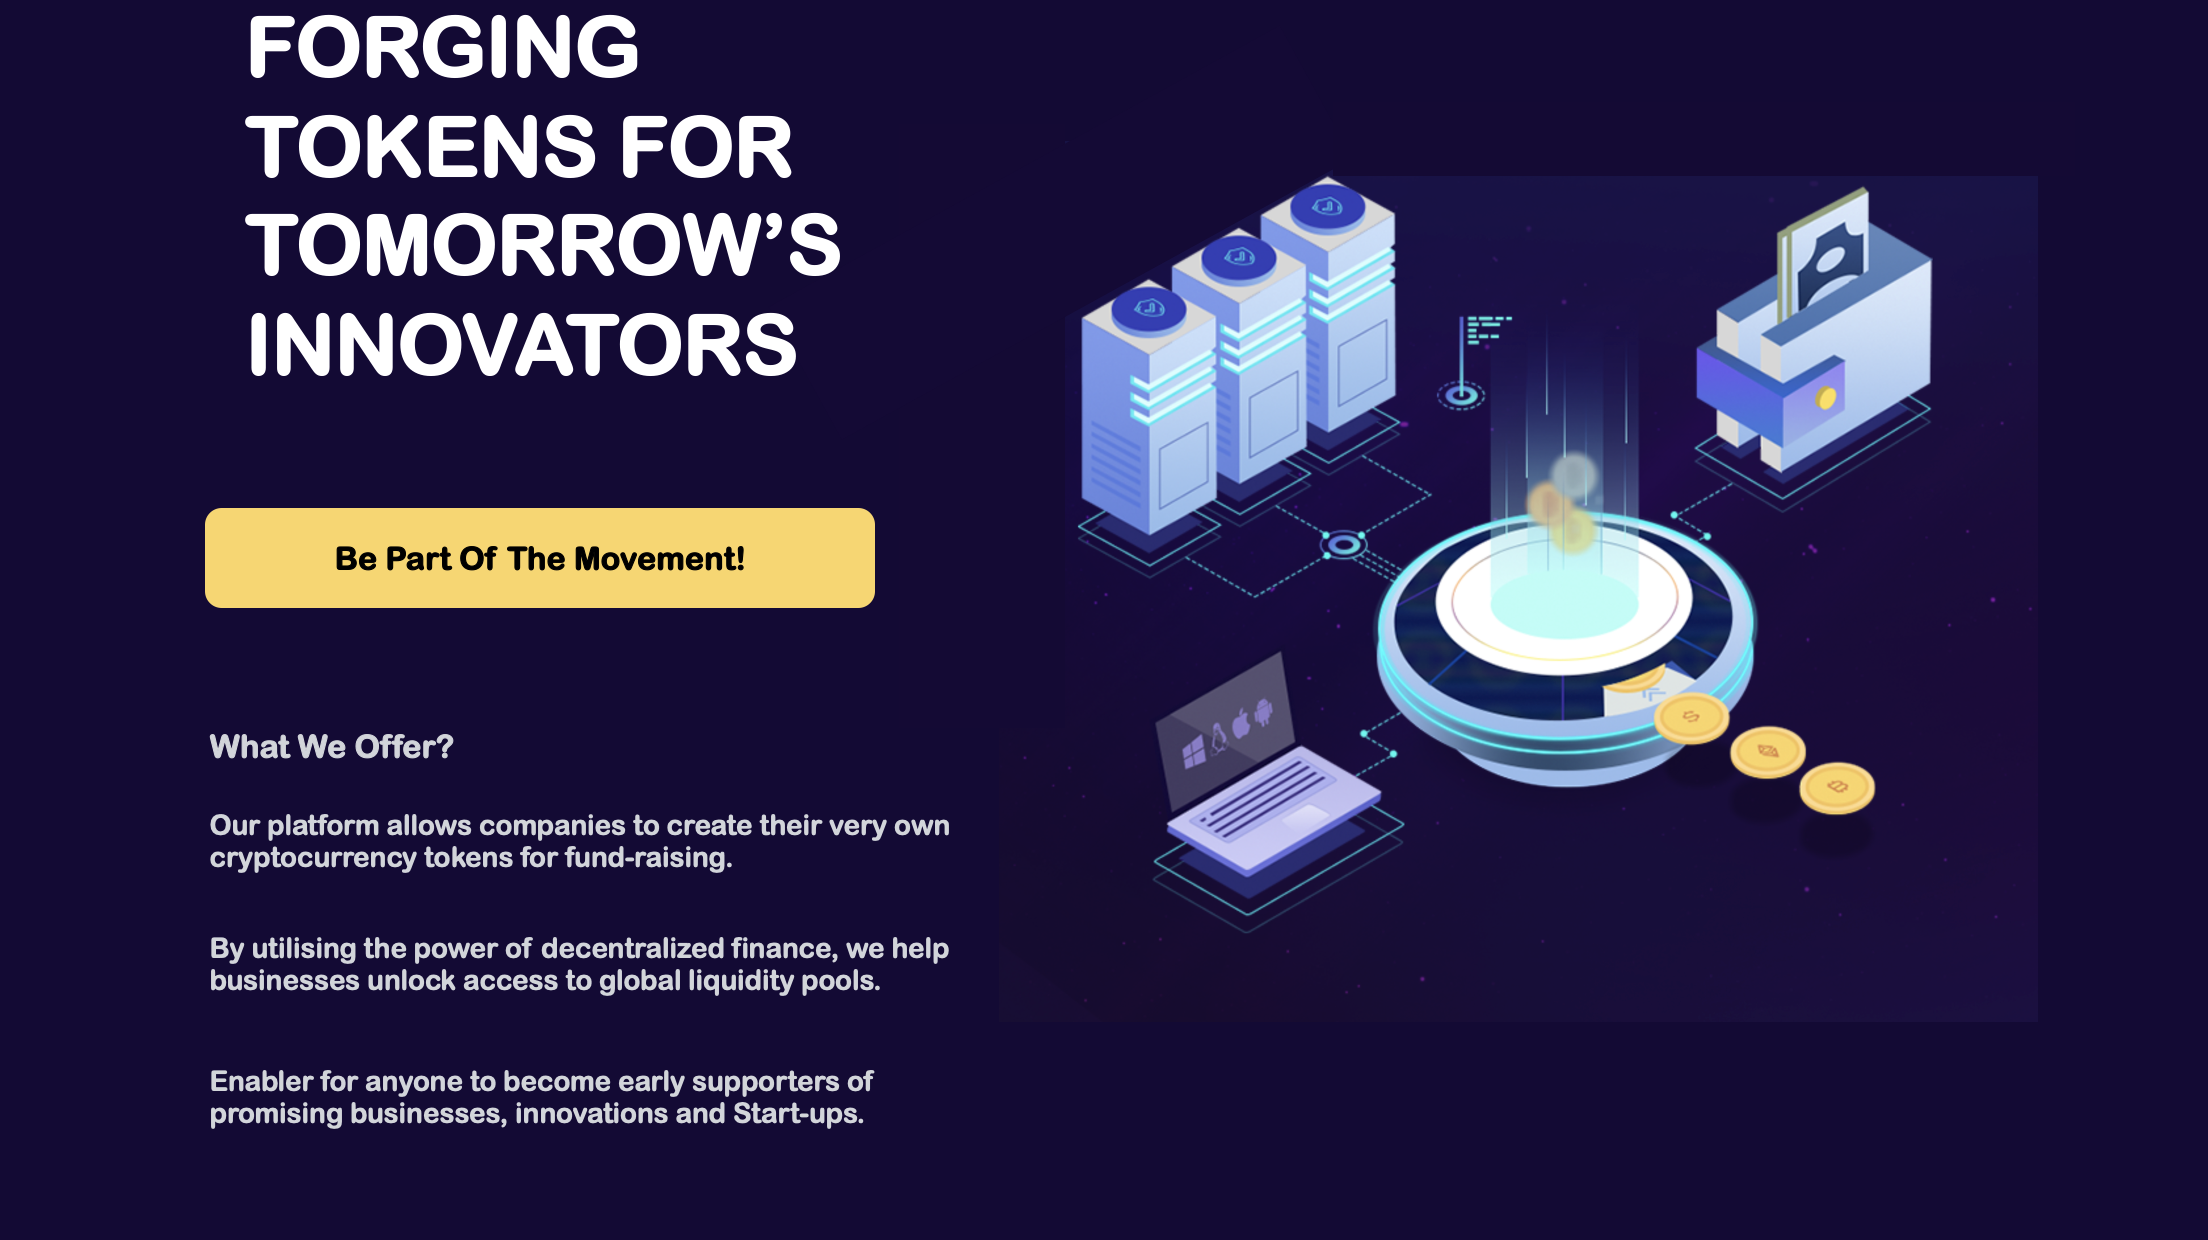
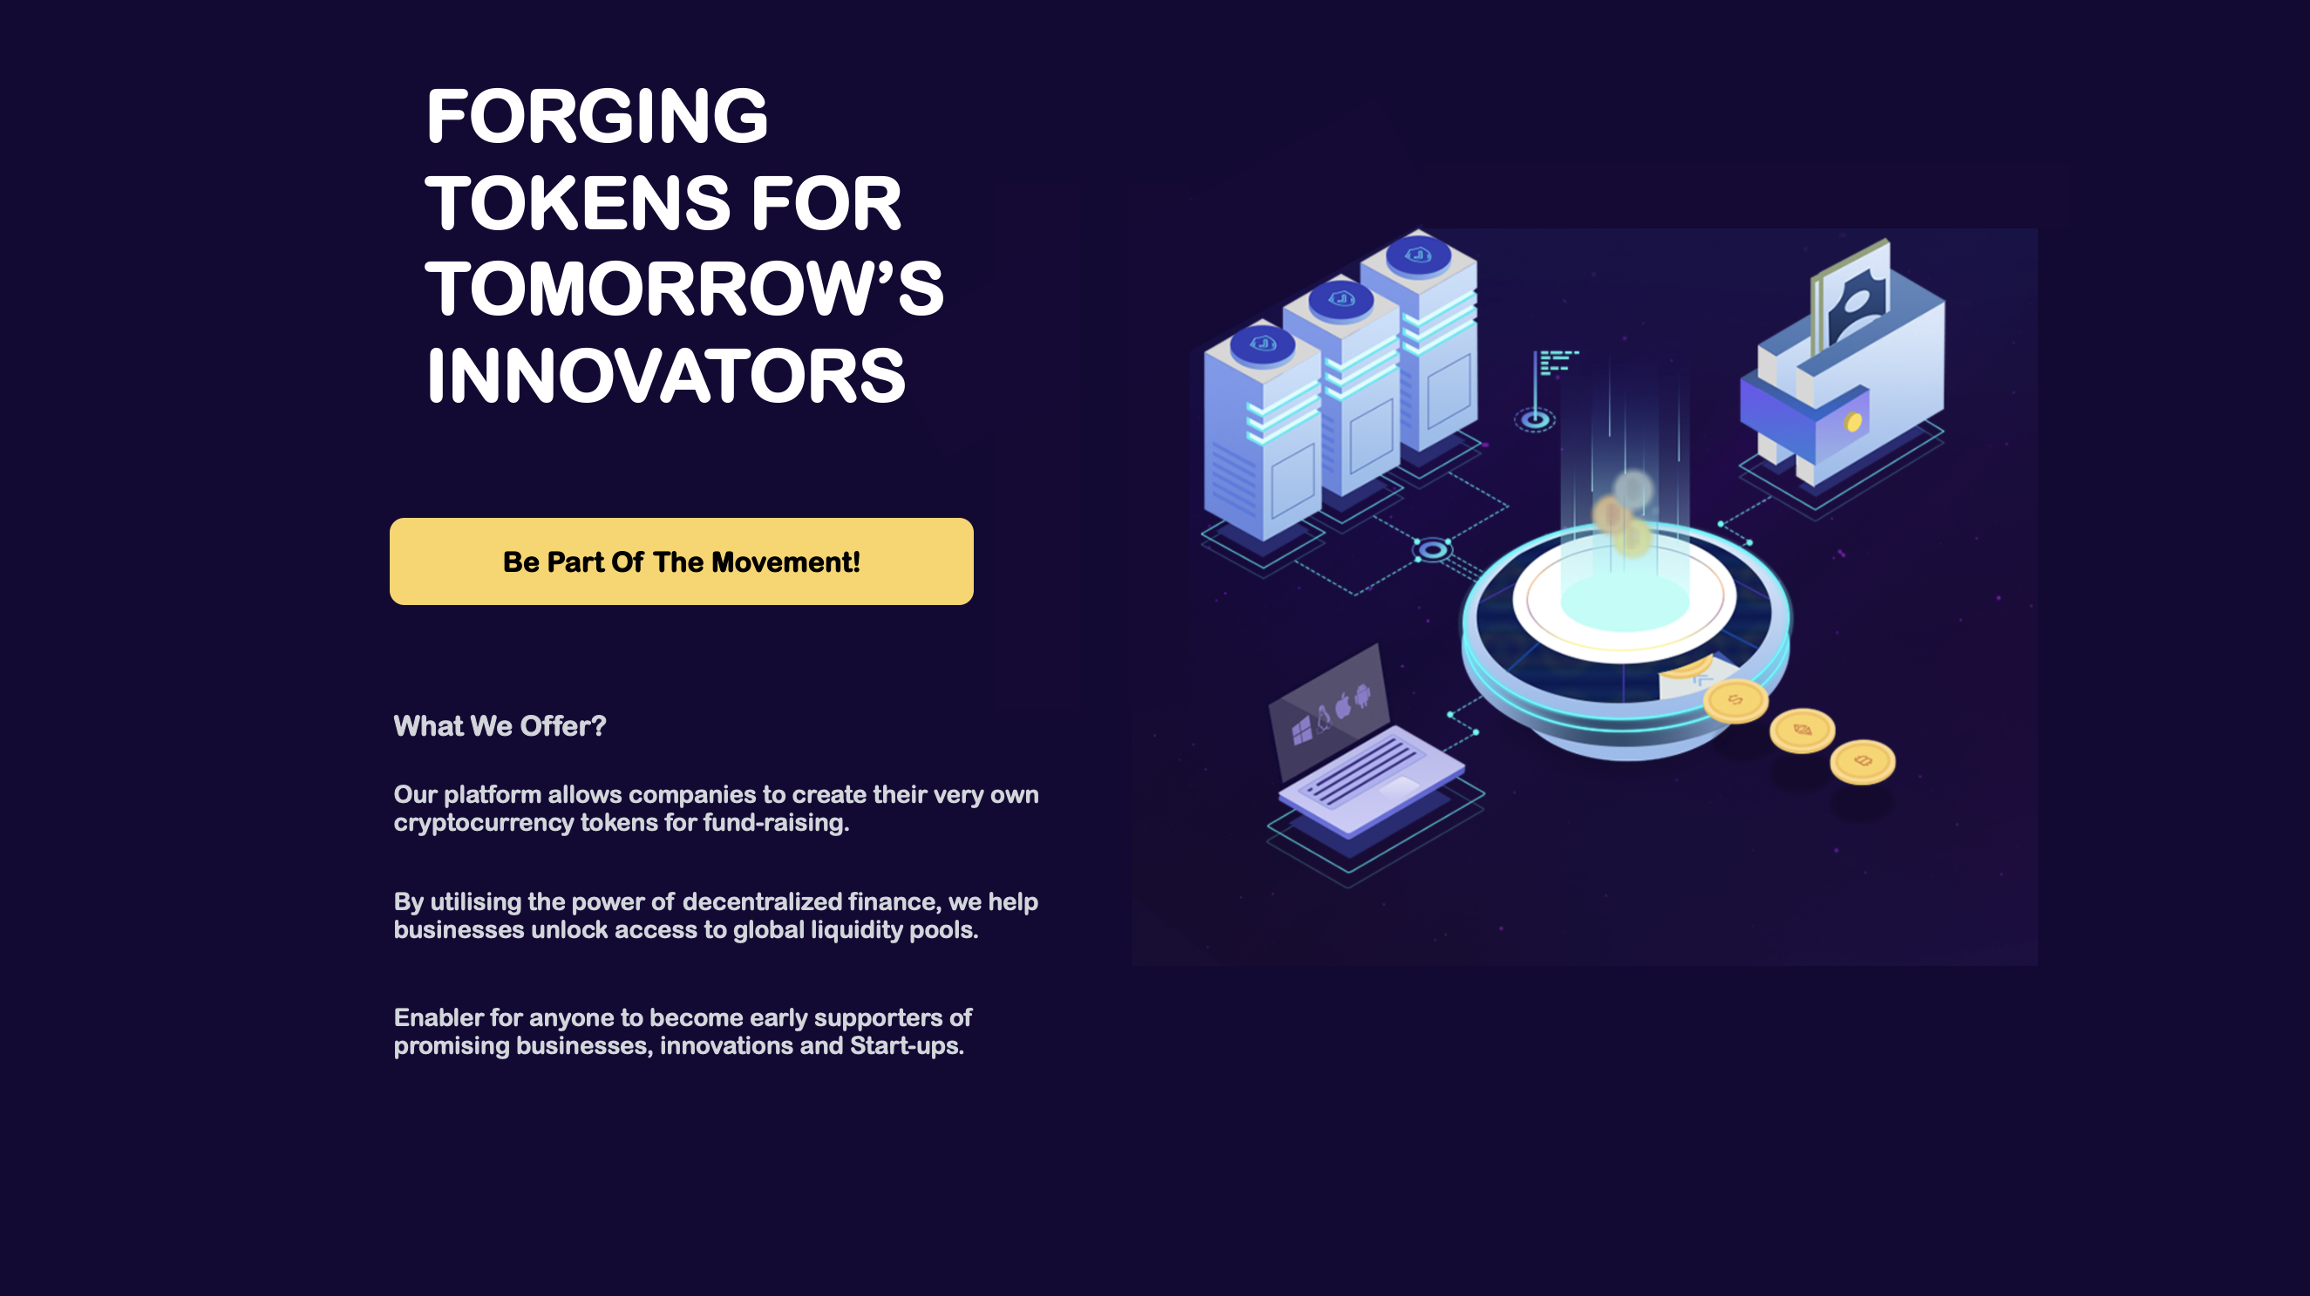
26/6/23 5:43pm

diff --git a/Client/src/app/components/account.component.html b/Client/src/app/components/account.component.html
@@ -1,6 +1,6 @@
 <mat-card>
     <mat-card-header>
-      <mat-card-title>Your Tokens:</mat-card-title>
+      <mat-card-title>Created Token:</mat-card-title>
     </mat-card-header>
     <mat-card-content>
       <div *ngFor="let token of tokens">
@@ -26,19 +26,19 @@
         </mat-list>
         <mat-divider></mat-divider>
       </div>
-      <button mat-raised-button color="primary" routerLink="/create">Create More Tokens</button>
+      <button mat-raised-button color="primary" routerLink="/create">Create Tokens</button>
     </mat-card-content>
   </mat-card>
 
 <mat-card>
     <mat-card-header>
-      <mat-card-title>Your Liquidity Pools:</mat-card-title>
+      <mat-card-title>Created Liquidity Pool:</mat-card-title>
     </mat-card-header>
     <mat-card-content>
         <div *ngFor="let liquidity of liquidities">
           <mat-list>
             <mat-list-item>
-              <span>Token: {{liquidity.token}}</span>
+              <span>Your Token: {{liquidity.token}}</span>
             </mat-list-item>
             <mat-list-item>
               <span>Token Amount: {{liquidity.amountToken}}</span>
@@ -55,25 +55,25 @@
           </mat-list>
           <mat-divider></mat-divider>
         </div>
-        <button mat-raised-button color="primary" routerLink="/addliquidity">Add Liquidity</button>
+        <button mat-raised-button color="primary" routerLink="/addliquidity">Create Liquidity Pool</button>
       </mat-card-content>
 </mat-card>
 
 <mat-card>
     <mat-card-header>
-      <mat-card-title>Your Swaps:</mat-card-title>
+      <mat-card-title>Exchanged Tokens:</mat-card-title>
     </mat-card-header>
     <mat-card-content>
         <div *ngFor="let swap of swaps">
           <mat-list>
             <mat-list-item>
-              <span>Token In: {{swap.tokenIn}}</span>
+              <span>Tokens(Give): {{swap.tokenIn}}</span>
             </mat-list-item>
             <mat-list-item>
-              <span>Amount In: {{swap.amountIn}}</span>
+              <span>Tokens(Give) Amount: {{swap.amountIn}}</span>
             </mat-list-item>
             <mat-list-item>
-              <span>Token Out: {{swap.tokenOut}}</span>
+              <span>Tokens(Get): {{swap.tokenOut}}</span>
             </mat-list-item>
             <mat-list-item>
                 <span>Transaction Hash: {{swap.transactionHash}}</span>
@@ -81,7 +81,7 @@
           </mat-list>
           <mat-divider></mat-divider>
         </div>
-        <button mat-raised-button color="primary" routerLink="/swap">Swap</button>
+        <button mat-raised-button color="primary" routerLink="/swap">Exchange Tokens</button>
       </mat-card-content>
 </mat-card>
   

diff --git a/Client/src/app/components/swap.component.html b/Client/src/app/components/swap.component.html
@@ -1,6 +1,6 @@
 <mat-card class="mat-typography">
     <mat-card-header>
-      <mat-card-title>Swap Tokens</mat-card-title>
+      <mat-card-title>Exchange Tokens</mat-card-title>
     </mat-card-header>
     <mat-card-content>
         <div *ngIf="isLoading" class="spinner-container">
@@ -16,22 +16,22 @@
         </mat-form-field>
 
         <mat-form-field appearance="fill">
-            <mat-label>Token In</mat-label>
+            <mat-label>Tokens(Give)</mat-label>
             <input matInput type="text" id="tokenIn" formControlName="tokenIn">
         </mat-form-field>
 
         <mat-form-field appearance="fill">
-            <mat-label>Token Out</mat-label>
+            <mat-label>Tokens(Get)</mat-label>
             <input matInput type="text" id="tokenOut" formControlName="tokenOut">
         </mat-form-field>
 
         <mat-form-field appearance="fill">
-            <mat-label>Amount In</mat-label>
+            <mat-label>Amount: Tokens(Give)</mat-label>
             <input matInput type="text" id="amountIn" formControlName="amountIn">
         </mat-form-field>
 
         <mat-form-field appearance="fill">
-            <mat-label>Max Slippage</mat-label>
+            <mat-label>Max Slippage (in Percentage)</mat-label>
             <input matInput type="number" id="slippage" formControlName="slippage">
         </mat-form-field>
 

diff --git a/Client/src/app/components/addliquidity.component.html b/Client/src/app/components/addliquidity.component.html
@@ -1,6 +1,6 @@
 <mat-card class="mat-typography">
     <mat-card-header>
-      <mat-card-title>Add Liquidity</mat-card-title>
+      <mat-card-title>Create Liquidity Pool</mat-card-title>
     </mat-card-header>
     <mat-card-content>
         <div *ngIf="isLoading" class="spinner-container">
@@ -16,7 +16,7 @@
         </mat-form-field>
 
         <mat-form-field appearance="fill">
-            <mat-label>Your Token</mat-label>
+            <mat-label>Your Token Contract Address</mat-label>
             <input matInput type="text" id="tokenA" formControlName="tokenA">
         </mat-form-field>
 
@@ -26,7 +26,7 @@
         </mat-form-field>
 
         <mat-form-field appearance="fill">
-            <mat-label>Liquidity Pair</mat-label>
+            <mat-label>Liquidity Pair Contract Address</mat-label>
             <input matInput type="text" id="tokenB" formControlName="tokenB">
         </mat-form-field>
 

diff --git a/Client/src/app/components/home.component.html b/Client/src/app/components/home.component.html
@@ -1,3 +1,6 @@
-<img src="assets/1.png"/>
+<img src="assets/1.png" routerLink="/register"/>
 <img src="assets/2.png"/>
-<!-- <img src="assets/pic.png"/> -->
+<img src="assets/3.png"/>
+<img src="assets/4.png"/>
+<img src="assets/5.png"/>
+

diff --git a/Client/src/app/components/addliquidity.component.css b/Client/src/app/components/addliquidity.component.css
@@ -7,7 +7,7 @@ mat-card {
   }
   
   mat-card-header {
-    background-color: #2c5477;
+    background-color: #15385c;
     color: #fff;
     border-top-left-radius: 15px;
     border-top-right-radius: 15px;

diff --git a/Client/src/app/components/swap.component.css b/Client/src/app/components/swap.component.css
@@ -7,7 +7,7 @@ mat-card {
   }
   
   mat-card-header {
-    background-color: #2c5477;
+    background-color: #15385c;
     color: #fff;
     border-top-left-radius: 15px;
     border-top-right-radius: 15px;

diff --git a/Client/src/app/components/tokencreation.component.css b/Client/src/app/components/tokencreation.component.css
@@ -7,7 +7,7 @@ mat-card {
   }
   
   mat-card-header {
-    background-color: #2c5477;
+    background-color: #15385c;
     color: #fff;
     border-top-left-radius: 15px;
     border-top-right-radius: 15px;

diff --git a/Client/src/app/components/login.component.css b/Client/src/app/components/login.component.css
@@ -7,7 +7,7 @@ mat-card {
 }
 
 mat-card-header {
-  background-color: #2c5477;
+  background-color: #15385c;
   color: #fff;
   border-top-left-radius: 15px;
   border-top-right-radius: 15px;

diff --git a/Client/src/app/components/register.component.css b/Client/src/app/components/register.component.css
@@ -7,7 +7,7 @@ mat-card {
 }
 
 mat-card-header {
-  background-color: #2c5477;
+  background-color: #15385c;
   color: #fff;
   border-top-left-radius: 15px;
   border-top-right-radius: 15px;

diff --git a/Client/src/app/components/reset-password.component.css b/Client/src/app/components/reset-password.component.css
@@ -7,7 +7,7 @@ mat-card {
 }
 
 mat-card-header {
-  background-color: #2c5477;
+  background-color: #15385c;
   color: #fff;
   border-top-left-radius: 15px;
   border-top-right-radius: 15px;

diff --git a/Client/src/app/components/home.component.css b/Client/src/app/components/home.component.css
@@ -1,5 +1,5 @@
 img {
-    width: 100vw; 
-    max-width: 1612px;
+    width: 110vw; 
+    max-width: 1630px;
     height: auto;
 }
